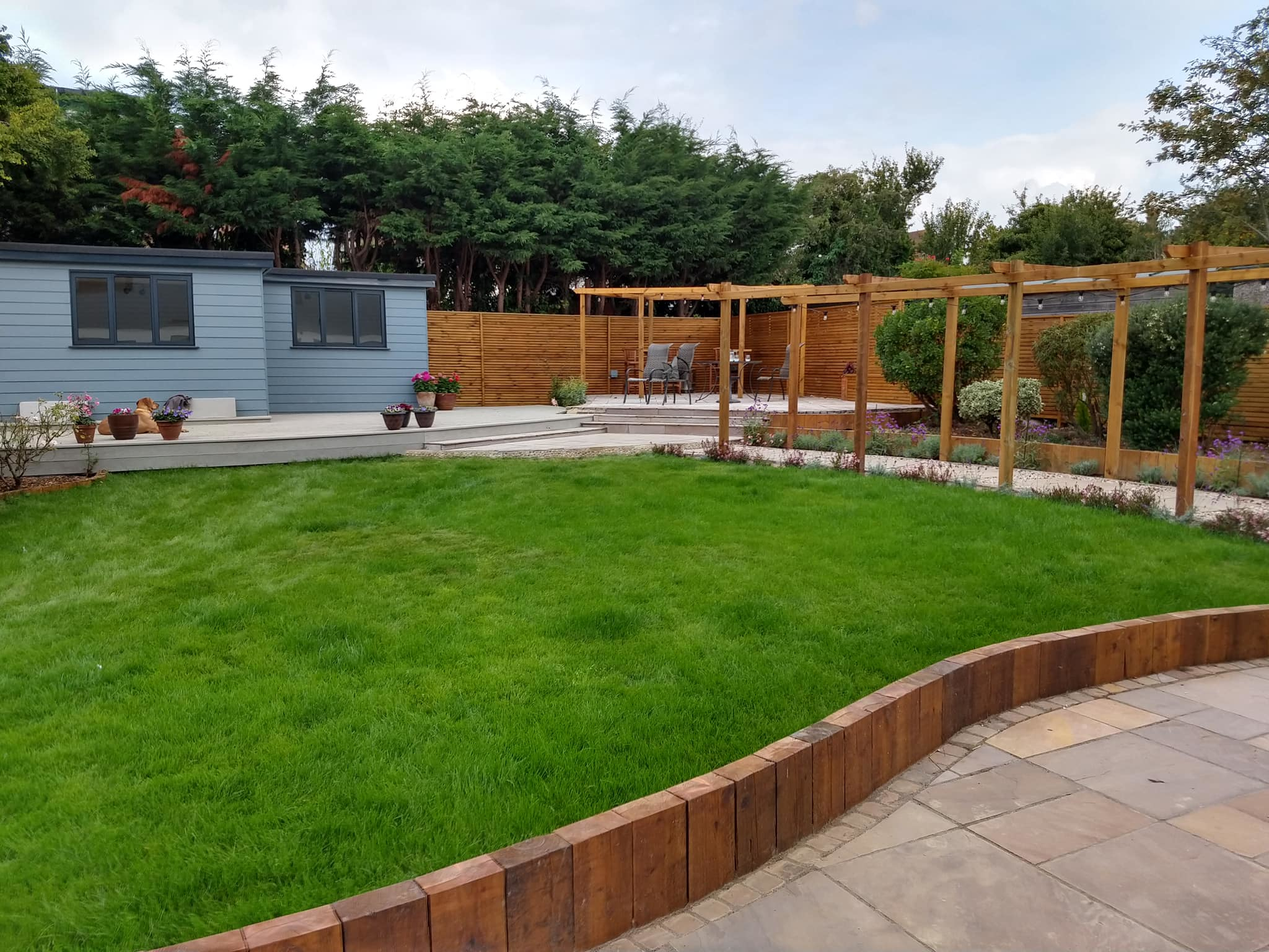
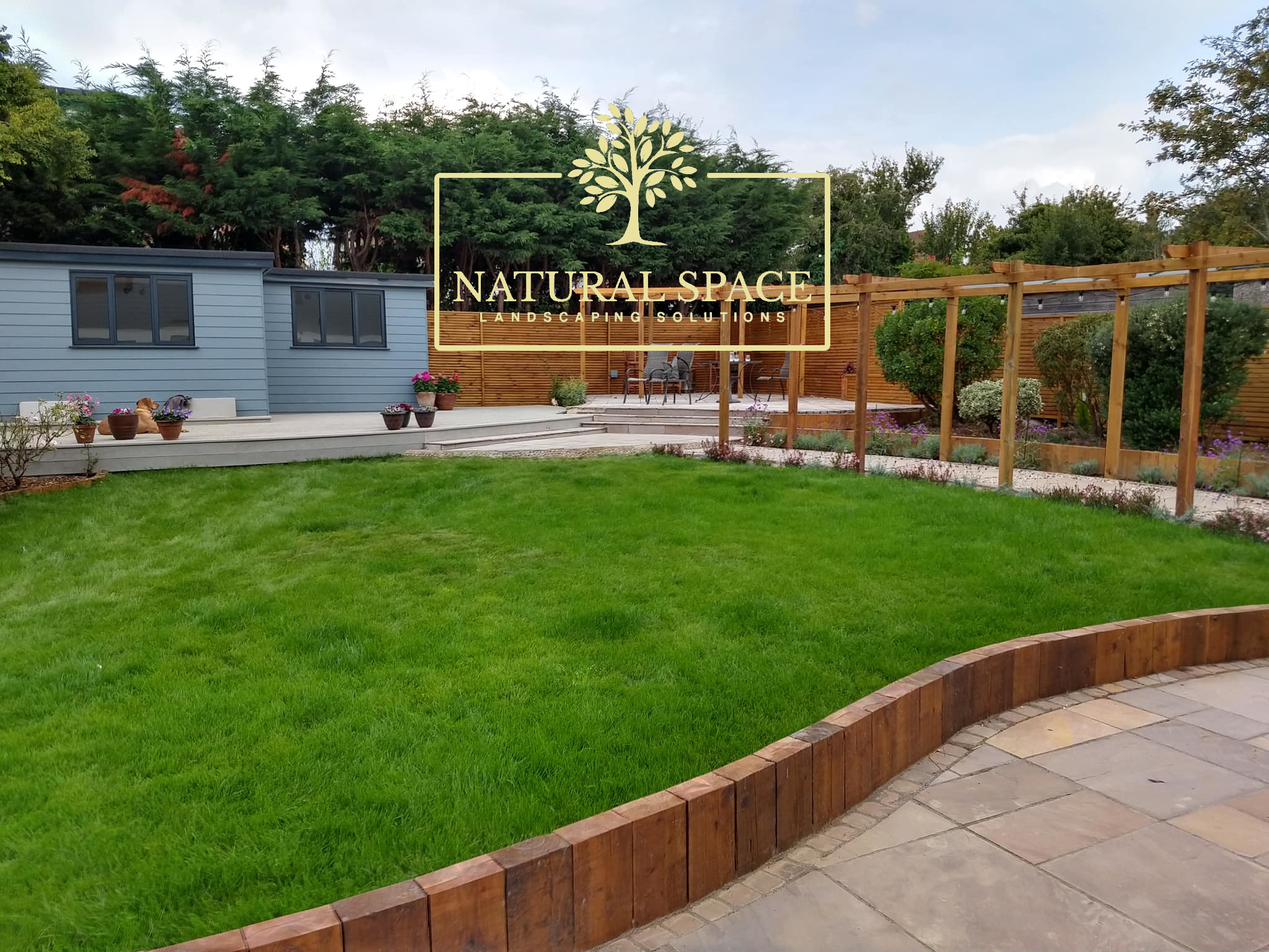
Updating site files

Changed region(s): [[0.3438, 0.0938, 0.6562, 0.375]]

diff --git a/index.html b/index.html
@@ -96,6 +96,7 @@
     .btn site-menu {
 	    font-family: Cantarell!important;
     }
+
 }
 </style>
 <body>
@@ -114,12 +115,12 @@
         
 
         <div id="site-head-content" class="inner">
-            <img id="blog-logo" src="images/logo.png" />
+            
 
-            <div class="title-and-description-guard">
-              <h1 class="blog-title">NATURAL SPACE<br>LANDSCAPING SOLUTIONS</h1>
-              <h2 class="blog-description"><b>Gardens</b> Patios<b> Pergolas</b></h2>
-            </div>
+            
+              
+              
+            
 
             
               
@@ -188,7 +189,7 @@
                     <h2 class="post-title">Welcome</h2>
                 </header>
                 <section class="post-content">
-                    <p>At Natural Space Landscapes we take a professional approach in all of our work to ensure that once it is complete you are left with a garden to be proud of. Whether you are looking for commercial landscaping for your business, or a makeover for your home, we have the equipment, materials and skills to make the dream a reality.</p>
+                    <p>As a locally run business, we take great pride in nurturing strong connections with our valued clients. It&rsquo;s our commitment to actively engage with your needs and preferences throughout the entire project, ultimately guaranteeing your utmost contentment with the final outcome.</p>
 
                 </section>
             </article>
@@ -207,10 +208,10 @@
 <p>Whether you want a complete redesign of your garden, a planting scheme for an existing border or simply some advice, we can help.</p>
 <p><img src="images/handsketched.png" alt="detailed hand-sketched garden plan"></p>
 <h4 id="patios--paving">Patios &amp; Paving</h4>
-<p>Patios can be an ideal low maintenance alternative to a traditional garden lawn. A natural stone patio is great if you are looking for a place to entertain guests or just to relax and enjoy your garden.</p>
+<p>Consider patios as the perfect, hassle-free alternative to a traditional garden lawn. If you&rsquo;re seeking an inviting space for hosting guests or a serene retreat to savor your garden, a natural stone patio is an excellent choice.</p>
 <p><img src="images/patiosandpaving.jpeg" alt="patio and paving"></p>
-<h4 id="pergolas">Pergola&rsquo;s</h4>
-<p>A lean to pergola creates a welcoming outdoor space right on your doorstep, similar to an awning. From garden soirees to al fresco lunches, simply step outside and enjoy. Lean to pergolas maximize your available space and create a sense of flow from your home to your garden. Think of it as a modern decorative feature as well as a useful structure; your pergola will be your new favourite spot to sit and relax. Some people also call these wall mounted pergolas.</p>
+<h4 id="raised-planters-and-built-in-seating">Raised planters and built-in seating</h4>
+<p>Elevate your outdoor space with our Raised Planters with Built-In Seating. These versatile garden solutions offer ergonomic gardening at waist height, allowing your plants to thrive, while integrated seating provides a comfortable spot to relax amidst your green oasis. Perfect for small spaces, these durable and stylish additions maximise both functionality and aesthetics, creating a serene haven for you to enjoy the beauty of nature in comfort and style.</p>
 <p><img src="images/pergola.jpeg" alt="pergola"></p>
 <h4 id="much-much-more">Much much more</h4>
 <p>We&rsquo;re able to offer almost anything you need! Please <a href="#contact-us">contact us</a> to discuss specifics and pricing.</p>
@@ -231,7 +232,7 @@
 <h4 id="locally-run">Locally run</h4>
 <p>As a locally run business, we care about the relationship we develop with our clients. This is why we make sure that we listen to your needs and requirements throughout the entire project, so that you are guaranteed to be happy with the final results.</p>
 <h4 id="professional-experience">Professional experience</h4>
-<p>Hi there my name is Stuart Dianes, I started Natural Space Landscapes over 10 years ago and since we are proud to have grown into a friendly, reliable local landscape business whom always strive for top-quality - with no compromises.</p>
+<p>I started Natural Space Landscapes over 10 years ago and since we are proud to have grown into a friendly, reliable local landscape business whom always strive for top-quality - with no compromises.</p>
 
                 </section>
             </article>

diff --git a/404.html b/404.html
@@ -96,6 +96,7 @@
     .btn site-menu {
 	    font-family: Cantarell!important;
     }
+
 }
 </style>
 <body>
